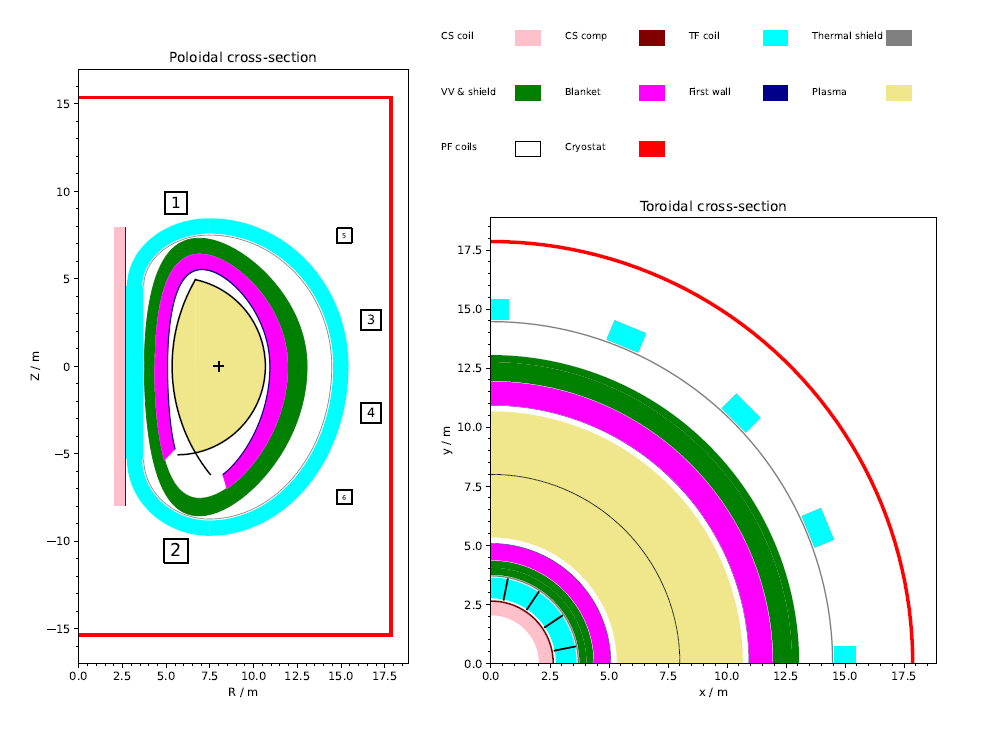
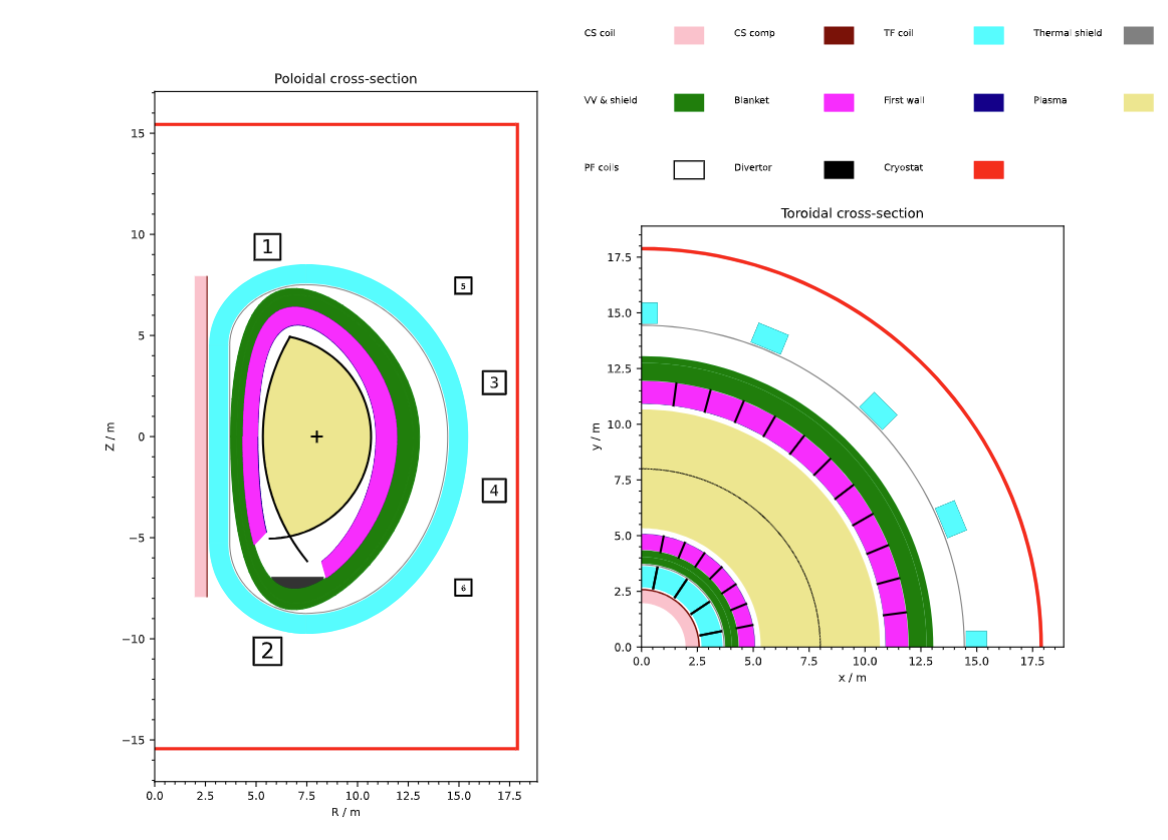
Refactor vacuum vessel plotting to include divertor visualization

diff --git a/process/io/plot_proc.py b/process/io/plot_proc.py
@@ -336,7 +336,7 @@ def poloidal_cross_section(axis, mfile_data, scan, demo_ranges, colour_scheme):
     axis.set_title("Poloidal cross-section")
     axis.minorticks_on()
 
-    plot_vacuum_vessel(axis, mfile_data, scan, colour_scheme)
+    plot_vacuum_vessel_and_divertor(axis, mfile_data, scan, colour_scheme)
     plot_shield(axis, mfile_data, scan, colour_scheme)
     plot_blanket(axis, mfile_data, scan, colour_scheme)
     plot_firstwall(axis, mfile_data, scan, colour_scheme)
@@ -3972,8 +3972,8 @@ def plot_radprofile(prof, mfile_data, scan, impp, demo_ranges) -> float:
     # ---
 
 
-def plot_vacuum_vessel(axis, mfile_data, scan, colour_scheme):
-    """Function to plot vacuum vessel
+def plot_vacuum_vessel_and_divertor(axis, mfile_data, scan, colour_scheme):
+    """Function to plot vacuum vessel and divertor boxes
 
     Arguments:
         axis --> axis object to plot to
@@ -3984,6 +3984,16 @@ def plot_vacuum_vessel(axis, mfile_data, scan, colour_scheme):
 
     i_single_null = mfile_data.data["i_single_null"].get_scan(scan)
     triang_95 = mfile_data.data["triang95"].get_scan(scan)
+    dz_divertor = mfile_data.data["dz_divertor"].get_scan(scan)
+    dz_xpoint_divertor = mfile_data.data["dz_xpoint_divertor"].get_scan(scan)
+    kappa = mfile_data.data["kappa"].get_scan(scan)
+    rminor = mfile_data.data["rminor"].get_scan(scan)
+    dr_vv_inboard = mfile_data.data["dr_vv_inboard"].get_scan(scan)
+    dr_vv_outboard = mfile_data.data["dr_vv_outboard"].get_scan(scan)
+    dr_shld_inboard = mfile_data.data["dr_shld_inboard"].get_scan(scan)
+    dr_shld_outboard = mfile_data.data["dr_shld_outboard"].get_scan(scan)
+    dr_blkt_inboard = mfile_data.data["dr_blkt_inboard"].get_scan(scan)
+    dr_blkt_outboard = mfile_data.data["dr_blkt_outboard"].get_scan(scan)
 
     # Outer side (furthest from plasma)
     radx_outer = (
@@ -4005,6 +4015,13 @@ def plot_vacuum_vessel(axis, mfile_data, scan, colour_scheme):
         - cumulative_radial_build("dr_vv_inboard", mfile_data, scan)
     ) / 2.0
 
+    z_divertor_lower_top = (-kappa * rminor) - dz_xpoint_divertor
+    z_divertor_lower_bottom = z_divertor_lower_top - dz_divertor
+
+    if i_single_null == 0:
+        z_divertor_upper_bottom = (kappa * rminor) + dz_xpoint_divertor
+        z_divertor_upper_top = z_divertor_upper_bottom + dz_divertor
+
     if i_single_null == 1:
         vvg_single_null = vacuum_vessel_geometry_single_null(
             cumulative_upper=cumulative_upper,
@@ -4023,6 +4040,7 @@ def plot_vacuum_vessel(axis, mfile_data, scan, colour_scheme):
             vvg_single_null.zs,
             color="black",
             lw=thin,
+            zorder=5,
         )
 
         axis.fill(
@@ -4030,26 +4048,13 @@ def plot_vacuum_vessel(axis, mfile_data, scan, colour_scheme):
             vvg_single_null.zs,
             color=VESSEL_COLOUR[colour_scheme - 1],
             lw=0.01,
+            zorder=5,
         )
-
-        dz_divertor = mfile_data.data["dz_divertor"].get_scan(scan)
-        dz_xpoint_divertor = mfile_data.data["dz_xpoint_divertor"].get_scan(scan)
-        kappa = mfile_data.data["kappa"].get_scan(scan)
-        rminor = mfile_data.data["rminor"].get_scan(scan)
-        dr_vv_inboard = mfile_data.data["dr_vv_inboard"].get_scan(scan)
-        dr_vv_outboard = mfile_data.data["dr_vv_outboard"].get_scan(scan)
-        dr_shld_inboard = mfile_data.data["dr_shld_inboard"].get_scan(scan)
-        dr_shld_outboard = mfile_data.data["dr_shld_outboard"].get_scan(scan)
-        dr_blkt_inboard = mfile_data.data["dr_blkt_inboard"].get_scan(scan)
-        dr_blkt_outboard = mfile_data.data["dr_blkt_outboard"].get_scan(scan)
-
-        z_divertor_top = (-kappa * rminor) - dz_xpoint_divertor
-        z_divertor_bottom = z_divertor_top - dz_divertor
 
         # Find indices where vessel boundary is between z_divertor_bottom and z_divertor_top
         # Find the min and max R values of the vessel boundary between the divertor lines
-        mask = (vvg_single_null.zs >= z_divertor_bottom) & (
-            vvg_single_null.zs <= z_divertor_top
+        mask = (vvg_single_null.zs >= z_divertor_lower_bottom) & (
+            vvg_single_null.zs <= z_divertor_lower_top
         )
         # Get the min/max R for the region between the divertor lines
         r_min = (
@@ -4067,12 +4072,12 @@ def plot_vacuum_vessel(axis, mfile_data, scan, colour_scheme):
         # Draw a rectangle (box) between the two lines and inside the vessel
         axis.add_patch(
             patches.Rectangle(
-                (r_min, z_divertor_bottom),
+                (r_min, z_divertor_lower_bottom),
                 r_max - r_min,
-                z_divertor_top - z_divertor_bottom,
+                z_divertor_lower_top - z_divertor_lower_bottom,
                 facecolor="black",
-                alpha=0.9,
-                zorder=5,
+                alpha=0.8,
+                zorder=1,
             )
         )
 
@@ -4086,13 +4091,77 @@ def plot_vacuum_vessel(axis, mfile_data, scan, colour_scheme):
             rminx_outer=rminx_outer,
             triang=triang_95,
         )
-        axis.plot(vvg_double_null.rs, vvg_double_null.zs, color="black", lw=thin)
+        axis.plot(
+            vvg_double_null.rs, vvg_double_null.zs, color="black", lw=thin, zorder=5
+        )
 
         axis.fill(
             vvg_double_null.rs,
             vvg_double_null.zs,
             color=VESSEL_COLOUR[colour_scheme - 1],
             lw=0.01,
+            zorder=5,
+        )
+
+        # Plot lower divertor
+        # Find indices where vessel boundary is between z_divertor_bottom and z_divertor_top
+        # Find the min and max R values of the vessel boundary between the divertor lines
+        mask = (vvg_double_null.zs >= z_divertor_lower_bottom) & (
+            vvg_double_null.zs <= z_divertor_lower_top
+        )
+        # Get the min/max R for the region between the divertor lines
+        r_min = (
+            np.min(vvg_double_null.rs[mask])
+            + dr_vv_inboard
+            + dr_shld_inboard
+            + (dr_blkt_inboard * 0.5)
+        )
+        r_max = (
+            np.max(vvg_double_null.rs[mask])
+            - dr_vv_outboard
+            - dr_shld_outboard
+            - (dr_blkt_outboard * 0.5)
+        )
+        # Draw a rectangle (box) between the two lines and inside the vessel
+        axis.add_patch(
+            patches.Rectangle(
+                (r_min, z_divertor_lower_bottom),
+                r_max - r_min,
+                z_divertor_lower_top - z_divertor_lower_bottom,
+                facecolor="black",
+                alpha=0.8,
+                zorder=1,
+            )
+        )
+        # Plot upper divertor
+        # Find indices where vessel boundary is between z_divertor_bottom and z_divertor_top
+        # Find the min and max R values of the vessel boundary between the divertor lines
+        mask = (vvg_double_null.zs >= z_divertor_upper_bottom) & (
+            vvg_double_null.zs <= z_divertor_upper_top
+        )
+        # Get the min/max R for the region between the divertor lines
+        r_min = (
+            np.min(vvg_double_null.rs[mask])
+            + dr_vv_inboard
+            + dr_shld_inboard
+            + (dr_blkt_inboard * 0.5)
+        )
+        r_max = (
+            np.max(vvg_double_null.rs[mask])
+            - dr_vv_outboard
+            - dr_shld_outboard
+            - (dr_blkt_outboard * 0.5)
+        )
+        # Draw a rectangle (box) between the two lines and inside the vessel
+        axis.add_patch(
+            patches.Rectangle(
+                (r_min, z_divertor_upper_bottom),
+                r_max - r_min,
+                z_divertor_upper_top - z_divertor_upper_bottom,
+                facecolor="black",
+                alpha=0.8,
+                zorder=1,
+            )
         )
 
 
@@ -4222,6 +4291,7 @@ def plot_blanket(axis, mfile_data, scan, colour_scheme) -> None:
             bg_single_null.zs,
             color="black",
             lw=thin,
+            zorder=5,
         )
 
         axis.fill(
@@ -4229,6 +4299,7 @@ def plot_blanket(axis, mfile_data, scan, colour_scheme) -> None:
             bg_single_null.zs,
             color=BLANKET_COLOUR[colour_scheme - 1],
             lw=0.01,
+            zorder=5,
         )
 
     if i_single_null == 0:
@@ -4248,17 +4319,23 @@ def plot_blanket(axis, mfile_data, scan, colour_scheme) -> None:
             bg_double_null.zs[0],
             color=BLANKET_COLOUR[colour_scheme - 1],
             lw=0.01,
+            zorder=5,
         )
         if dr_blkt_inboard > 0.0:
             # only plot inboard blanket if inboard blanket thickness > 0
             axis.plot(
-                bg_double_null.rs[1], bg_double_null.zs[1], color="black", lw=thin
+                bg_double_null.rs[1],
+                bg_double_null.zs[1],
+                color="black",
+                lw=thin,
+                zorder=5,
             )
             axis.fill(
                 bg_double_null.rs[1],
                 bg_double_null.zs[1],
                 color=BLANKET_COLOUR[colour_scheme - 1],
                 lw=0.01,
+                zorder=5,
             )
 
 
